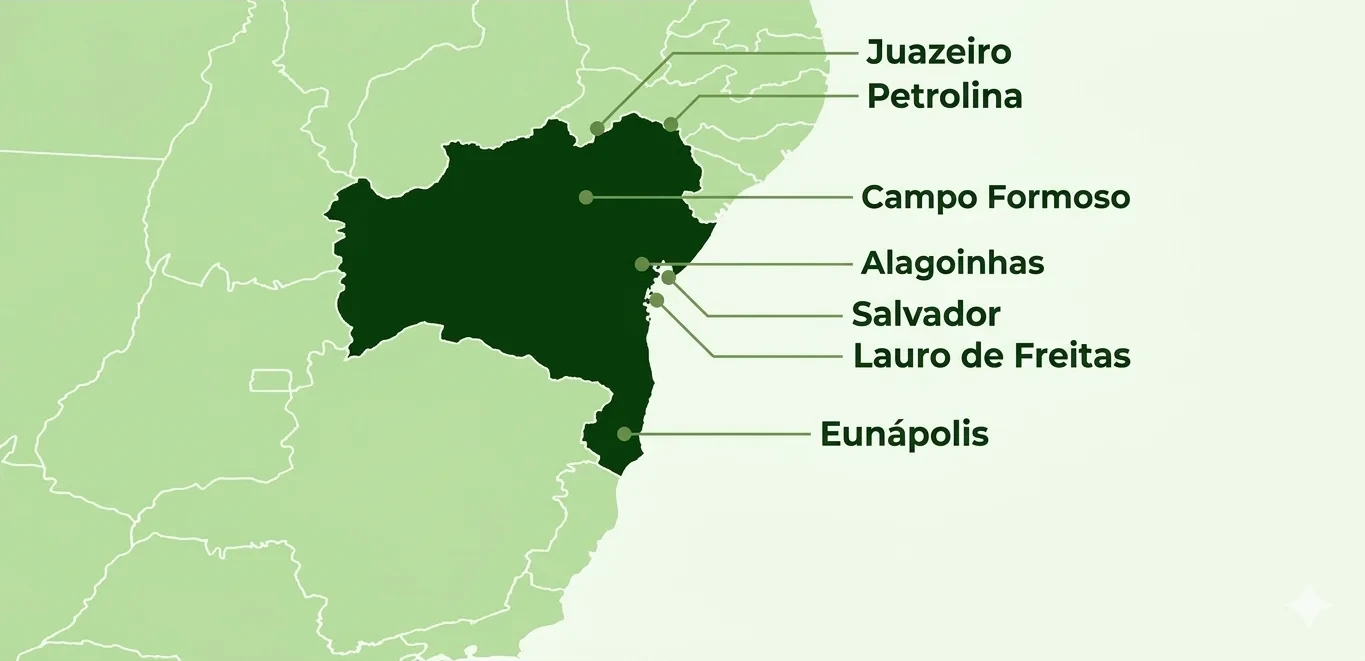
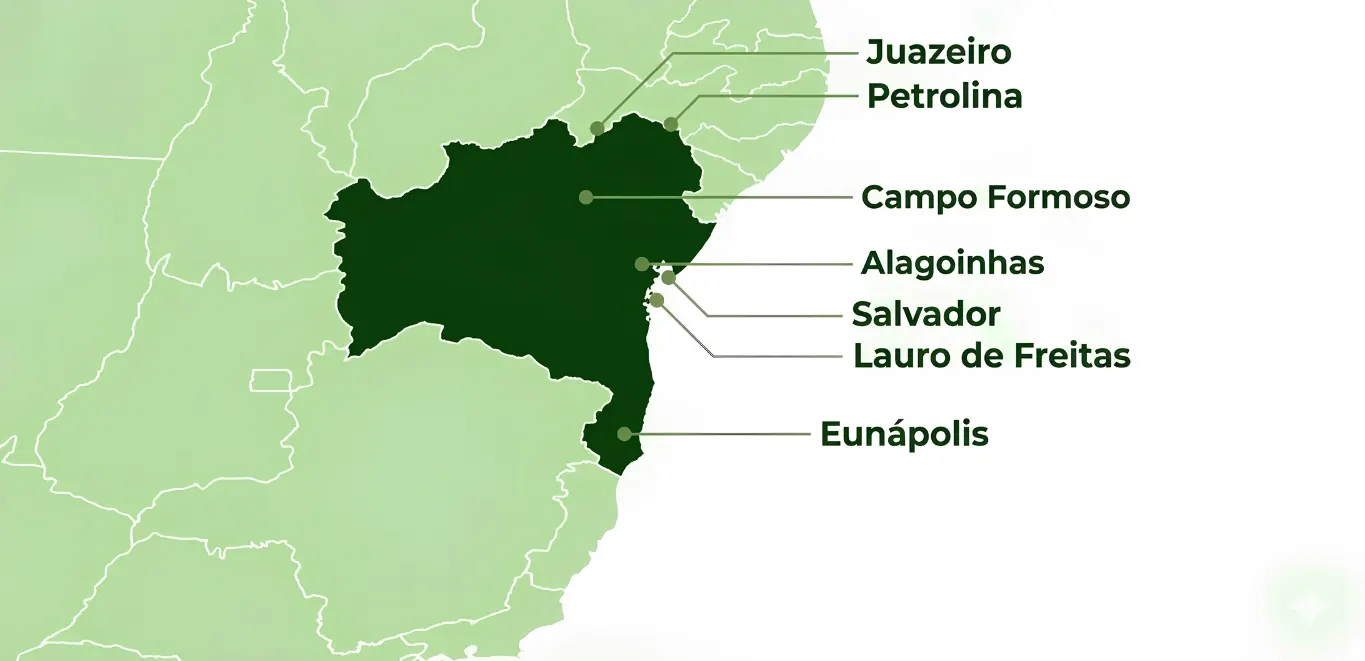
Limp City: mapa de Bahia recortado a la zona util con borde en la tarjeta; nuevo WebP del mapa; limpia respaldos del hero

Changed region(s): [[0.4923, 0.4236, 0.6154, 0.5446], [0.5231, 0.3933, 0.6154, 0.4236], [0.4923, 0.6354, 0.5846, 0.6657]]

diff --git a/src/components/limpcity/LimpCityCoverage.tsx b/src/components/limpcity/LimpCityCoverage.tsx
@@ -1,9 +1,12 @@
 import { motion, useReducedMotion } from 'motion/react'
 import { coverageMap, limpCityCities } from '@/lib/limp-city'
 
-// Proporción de la imagen fuente: la tarjeta tiene exactamente esta forma, así el
-// mapa se ve completo y sin franjas de otro tono alrededor.
-const MAP_RATIO = '1365 / 661'
+// La imagen fuente mide 1365x661, pero a la derecha de las etiquetas y debajo de
+// Eunápolis solo hay mar vacío. La tarjeta muestra únicamente la zona útil
+// (1170x560 px de la imagen): el mapa se ve más grande y todas las etiquetas
+// siguen completas.
+const MAP_RATIO = '1170 / 560'
+const MAP_IMAGE_WIDTH = `${(1365 / 1170) * 100}%`
 
 export function LimpCityCoverage() {
   const reduceMotion = useReducedMotion()
@@ -27,7 +30,7 @@ export function LimpCityCoverage() {
 
       <div className="mt-8 overflow-x-auto lg:mt-[clamp(0.75rem,3vh,2.5rem)] lg:flex lg:min-h-0 lg:flex-1 lg:justify-center lg:overflow-visible">
         <div
-          className="relative isolate min-w-[640px] overflow-hidden bg-moss-100 shadow-card lg:h-full lg:min-w-0"
+          className="relative isolate min-w-[640px] overflow-hidden bg-moss-100 shadow-card ring-1 ring-moss-700/15 lg:h-full lg:min-w-0"
           style={{ aspectRatio: MAP_RATIO }}
         >
           <motion.img
@@ -41,7 +44,8 @@ export function LimpCityCoverage() {
             whileInView={{ scale: 1 }}
             viewport={{ once: true, amount: 0.3 }}
             transition={{ duration: 1.1, ease: [0.16, 1, 0.3, 1] }}
-            className="h-full w-full object-cover"
+            style={{ width: MAP_IMAGE_WIDTH }}
+            className="absolute left-0 top-0 h-auto max-w-none"
           />
           <span aria-hidden="true" className="absolute right-4 top-4 h-5 w-5 border-r-2 border-t-2 border-navy-900/50 lg:right-6 lg:top-6 lg:h-6 lg:w-6" />
           <span aria-hidden="true" className="absolute bottom-4 left-4 h-5 w-5 border-b-2 border-l-2 border-navy-900/50 lg:bottom-6 lg:left-6 lg:h-6 lg:w-6" />
